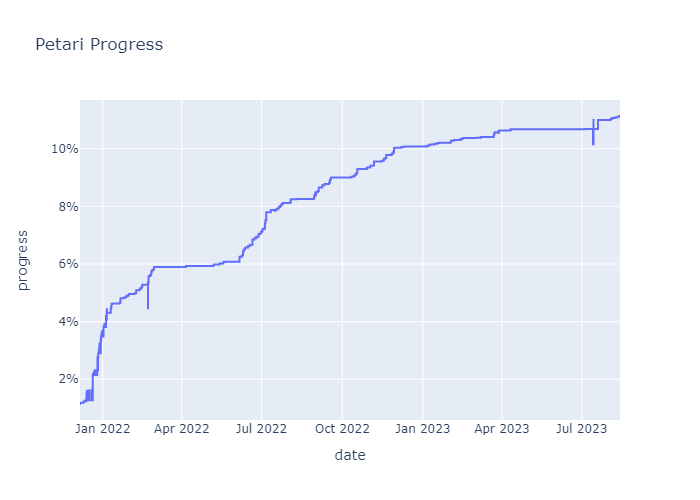
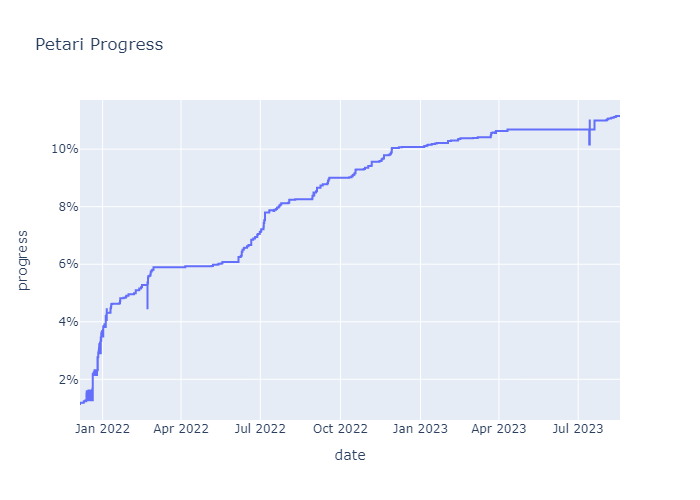
progress on `WPadPointer.o`

diff --git a/source/Game/System/WPadPointer.cpp b/source/Game/System/WPadPointer.cpp
@@ -1,0 +1,121 @@
+#include "Game/System/WPadPointer.h"
+#include "Game/Util.h"
+#include <JSystem/JUtility/JUTVideo.h>
+
+#ifdef NON_MATCHING
+// arrays are generating a constructor for some reason
+WPadPointer::WPadPointer(const WPad* pPad) {
+    mPad = pPad;
+    mPosPlayRadius = 0.029999999f;
+    mPosSensitivity = 0.5f;
+    mHoriPlayRadius = 0.0;
+    mHoriSensitivity = 1.0f;
+    mDistPlayRadius = 0.0f;
+    mDistSensitivity = 1.0f;
+    _2C = 0;
+    _30 = 0.0f;
+    _34 = 0;
+    _38 = 0;
+    _3C = 0;
+    mEnablePastCount = 0;
+    _44 = 0; 
+    _45 = 0;
+    mPointingPosArray = new TVec2f[0x78];
+    mHorizonArray = new TVec2f[0x78];
+    _C = 120;
+    reset();
+}
+#endif
+
+void WPadPointer::reset() {
+    for (s32 i = 0; i < _C; i++) {
+        TVec2f* cur = &mPointingPosArray[i];
+        cur->x = 0.0f;
+        cur->y = 0.0f; 
+        cur = &mHorizonArray[i];
+        cur->x = 0.0f;
+        cur->y = 0.0f;
+    }
+
+    _34 = 0;
+    _30 = 0.0f;
+    _38 = 0;
+    mEnablePastCount = 0;
+    _2C = 0;
+    _44 = 0; 
+    _45 = 0;
+    KPADSetPosParam(mPad->mChannel, mPosPlayRadius, mPosSensitivity);
+    KPADSetHoriParam(mPad->mChannel, mHoriPlayRadius, mHoriSensitivity);
+    KPADSetDistParam(mPad->mChannel, mDistPlayRadius, mDistSensitivity);
+}
+
+
+void WPadPointer::setSensorBarLevel(f32 lvl) {
+    KPADSetSensorHeight(mPad->mChannel, lvl);
+}
+
+/*void WPadPointer::update() {
+    KPADStatus* status = mPad->getKPadStatus(0);
+
+    if (status != nullptr) {
+        _45 = 0;
+        _30 = status->dist;
+        _34 = status->dpd_valid_fg;
+        s32 validCount = mPad->getValidStatusCount();
+        mEnablePastCount = 0;
+
+        if (_C > validCount) {
+            validCount = _C;
+        }
+
+        bool isAnyDPDValid = false;
+
+        while (validCount - 1 >= 0) {
+            KPADStatus* curStatus = mPad->getKPadStatus(validCount);
+
+            if (curStatus->dpd_valid_fg) {
+                isAnyDPDValid = true;
+            }
+
+            if (curStatus->dpd_valid_fg >= 2) {
+                if (!_44 && _38 >= 5 || !_44 && _3C <= 10) {
+                    mPointingPosArray[mEnablePastCount] = (TVec2f)curStatus->pos;
+                }
+            }
+        }
+    }
+}*/
+
+
+void WPadPointer::getPointingPos(TVec2f* pOut) const {
+    if (_44 != 0) {
+        pOut->set(mPointingPosArray[mEnablePastCount - 1]);
+    }
+    else {
+        pOut->x = 0.0f;
+        pOut->y = 0.0f;
+    }
+}
+
+void WPadPointer::getHorizonVec(TVec2f* pOut) const {
+    if (_44 != 0) {
+        pOut->set(mHorizonArray[mEnablePastCount - 1]);
+    }
+    else {
+        pOut->x = 0.0f;
+        pOut->y = 0.0f;
+    }
+}
+
+void WPadPointer::getPastPointingPos(TVec2f* pOut, s32 idx) const {
+    pOut->set(mPointingPosArray[mEnablePastCount - 1 - idx]);
+}
+
+u32 WPadPointer::getEnablePastCount() const {
+    return mEnablePastCount;
+}
+
+void WPadPointer::getPointingPosBasedOnScreen(TVec2f* pOut) const {
+    pOut->x = (0.5f + (0.5f * mPointingPosArray->x)) * (int)MR::getScreenWidth();
+    pOut->y = (0.5f + (0.5f * mPointingPosArray->y)) * (int)(JUTVideo::sManager->mRenderModeObj->efbHeight);
+}

diff --git a/include/Game/System/WPadPointer.h b/include/Game/System/WPadPointer.h
@@ -1,0 +1,39 @@
+#pragma once
+
+#include "Game/System/WPad.h"
+#include <JSystem/JGeometry.h>
+
+class WPadPointer {
+public:
+    WPadPointer(const WPad *);
+
+    void reset();
+    void setSensorBarLevel(f32);
+    void update();
+    void getPointingPos(TVec2f *) const;
+    void getHorizonVec(TVec2f *) const;
+    void getPastPointingPos(TVec2f *, s32) const;
+    u32 getEnablePastCount() const;
+    void getPointingPosBasedOnScreen(TVec2f *) const;
+
+    const WPad* mPad;               // _0
+    TVec2f* mPointingPosArray;      // _4
+    TVec2f* mHorizonArray;          // _8
+    s32 _C;
+    u32 _10;
+    f32 mPosPlayRadius;             // _14
+    f32 mPosSensitivity;            // _18
+    f32 mHoriPlayRadius;            // _1C
+    f32 mHoriSensitivity;           // _20
+    f32 mDistPlayRadius;            // _24
+    f32 mDistSensitivity;           // _28
+    u32 _2C;
+    f32 _30;
+    u8 _34;
+    u32 _38;
+    u32 _3C;
+    u32 mEnablePastCount;           // _40
+    u8 _44;
+    u8 _45;
+    f32 _48;
+};

diff --git a/source/Game/Camera/CameraShakePatternImpl.cpp b/source/Game/Camera/CameraShakePatternImpl.cpp
@@ -2,7 +2,7 @@
 #include "Game/Util/MathUtil.h"
 #include "Game/AreaObj/MercatorTransformCube.h"
 
-CameraShakePatternSingly::CameraShakePatternSingly(float a1) {
+CameraShakePatternSingly::CameraShakePatternSingly(float a1)  : CameraShakePattern() {
     _8 = a1;
     mDirection.x = 0.0f;
     mDirection.y = 1.0f;

diff --git a/libs/RVL_SDK/include/revolution/kpad.h b/libs/RVL_SDK/include/revolution/kpad.h
@@ -57,6 +57,10 @@ typedef struct KPADStatus {
 } KPADStatus;
 
 void KPADSetBtnRepeat(s32, f32, f32);
+void KPADSetSensorHeight(s32, f32);
+void KPADSetPosParam(s32, f64, f64);
+void KPADSetHoriParam(s32, f64, f64);
+void KPADSetDistParam(s32, f64, f64);
 
 #ifdef __cplusplus
 }

diff --git a/include/Game/System/WPad.h b/include/Game/System/WPad.h
@@ -15,6 +15,7 @@ class WPad {
 public:
     WPad(s32);
 
+    u32 getValidStatusCount() const;
     KPADStatus* getKPadStatus(u32) const;
 
     s32 mChannel;                           // _0

diff --git a/include/Game/Util/ScreenUtil.h b/include/Game/Util/ScreenUtil.h
@@ -55,6 +55,8 @@ namespace MR {
 
     ResTIMG* getScreenResTIMG();
 
+    s32 getScreenWidth();
+
     void openWipeWhiteFade(s32);
     void closeWipeWhiteFade(s32);
 

diff --git a/docs/lib/System/WPadPointer.md b/docs/lib/System/WPadPointer.md
@@ -5,16 +5,16 @@
 | :white_check_mark: | Function is completed. 
 
 
-# 0 / 9 Completed -- (0.0%)
+# 7 / 9 Completed -- (77.77777777777779%)
 # WPadPointer.o
 | Symbol | Decompiled? |
 | ------------- | ------------- |
 | `__ct__11WPadPointerFPC4WPad` | :x: |
-| `reset__11WPadPointerFv` | :x: |
-| `setSensorBarLevel__11WPadPointerFf` | :x: |
+| `reset__11WPadPointerFv` | :white_check_mark: |
+| `setSensorBarLevel__11WPadPointerFf` | :white_check_mark: |
 | `update__11WPadPointerFv` | :x: |
-| `getPointingPos__11WPadPointerCFPQ29JGeometry8TVec2<f>` | :x: |
-| `getHorizonVec__11WPadPointerCFPQ29JGeometry8TVec2<f>` | :x: |
-| `getPastPointingPos__11WPadPointerCFPQ29JGeometry8TVec2<f>l` | :x: |
-| `getEnablePastCount__11WPadPointerCFv` | :x: |
-| `getPointingPosBasedOnScreen__11WPadPointerCFPQ29JGeometry8TVec2<f>` | :x: |
+| `getPointingPos__11WPadPointerCFPQ29JGeometry8TVec2<f>` | :white_check_mark: |
+| `getHorizonVec__11WPadPointerCFPQ29JGeometry8TVec2<f>` | :white_check_mark: |
+| `getPastPointingPos__11WPadPointerCFPQ29JGeometry8TVec2<f>l` | :white_check_mark: |
+| `getEnablePastCount__11WPadPointerCFv` | :white_check_mark: |
+| `getPointingPosBasedOnScreen__11WPadPointerCFPQ29JGeometry8TVec2<f>` | :white_check_mark: |

diff --git a/docs/lib/System.md b/docs/lib/System.md
@@ -63,7 +63,7 @@
 | [WPadHVSwing.o](https://github.com/shibbo/Petari/blob/master/docs/lib/System/WPadHVSwing.md) | 0.0% | 0 / 4 | 0.0% | :x: 
 | [WPadInfoChecker.o](https://github.com/shibbo/Petari/blob/master/docs/lib/System/WPadInfoChecker.md) | 0.0% | 0 / 6 | 0.0% | :x: 
 | [WPadLeaveWatcher.o](https://github.com/shibbo/Petari/blob/master/docs/lib/System/WPadLeaveWatcher.md) | 0.0% | 0 / 5 | 0.0% | :x: 
-| [WPadPointer.o](https://github.com/shibbo/Petari/blob/master/docs/lib/System/WPadPointer.md) | 0.0% | 0 / 9 | 0.0% | :x: 
+| [WPadPointer.o](https://github.com/shibbo/Petari/blob/master/docs/lib/System/WPadPointer.md) | 44.48051948051948% | 7 / 9 | 77.77777777777779% | :eight_pointed_black_star: 
 | [WPadRumble.o](https://github.com/shibbo/Petari/blob/master/docs/lib/System/WPadRumble.md) | 0.0% | 0 / 14 | 0.0% | :x: 
 | [WPadRumbleData.o](https://github.com/shibbo/Petari/blob/master/docs/lib/System/WPadRumbleData.md) | 0.0% | 0 / 3 | 0.0% | :x: 
 | [WPadStick.o](https://github.com/shibbo/Petari/blob/master/docs/lib/System/WPadStick.md) | 0.0% | 0 / 3 | 0.0% | :x: 

diff --git a/docs/PROGRESS.md b/docs/PROGRESS.md
@@ -22,5 +22,5 @@
 | [Scene](https://github.com/shibbo/Petari/blob/master/docs/lib/Scene.md) | 12.230081906180192% |
 | [Screen](https://github.com/shibbo/Petari/blob/master/docs/lib/Screen.md) | 3.9020947950289457% |
 | [Speaker](https://github.com/shibbo/Petari/blob/master/docs/lib/Speaker.md) | 49.743881616391576% |
-| [System](https://github.com/shibbo/Petari/blob/master/docs/lib/System.md) | 12.971353405437005% |
+| [System](https://github.com/shibbo/Petari/blob/master/docs/lib/System.md) | 13.305076488356232% |
 | [Util](https://github.com/shibbo/Petari/blob/master/docs/lib/Util.md) | 9.661178747499052% |
